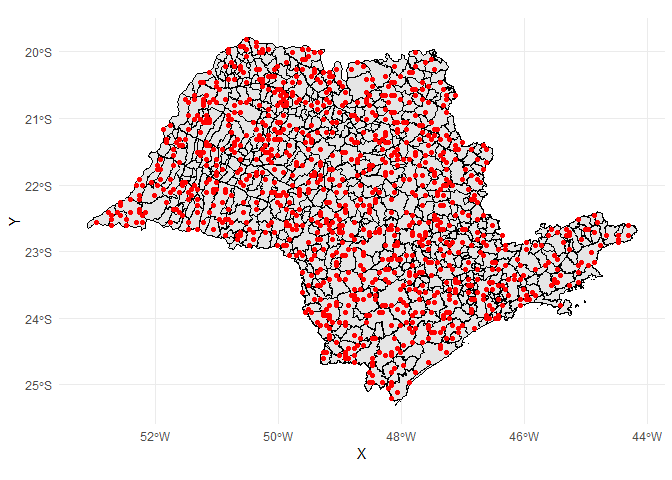
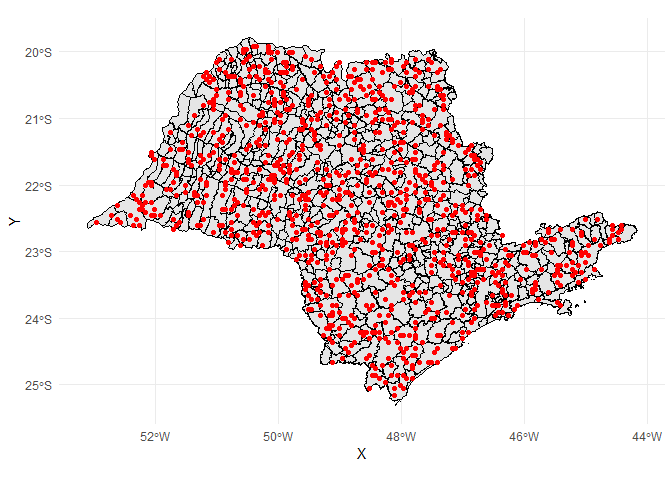
atualizados

Changed region(s): [[0.1562, 0.0938, 0.9375, 0.8438]]

diff --git a/README.md b/README.md
@@ -75,7 +75,7 @@ data_set_sp <- read_rds("data/nasa-xco2-sp.rds") |>
 #### Análise de regressão linear simples para caracterização da tendência.
 
 ``` r
-mod_trend_xco2 <- lm(xco2 ~ date, 
+mod_trend_xco2 <- lm(xco2 ~ year, 
           data = data_set_sp |> 
             filter(xco2_quality_flag == 0) |> 
             drop_na() |> 
